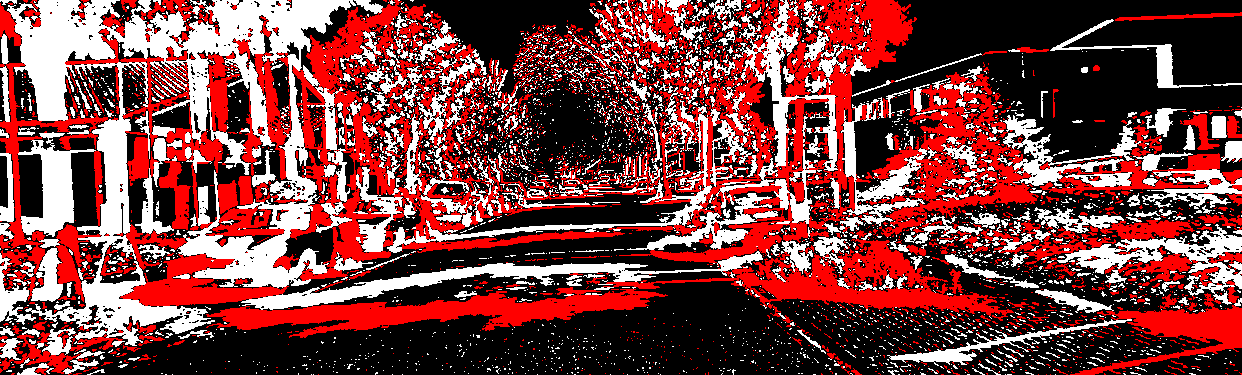
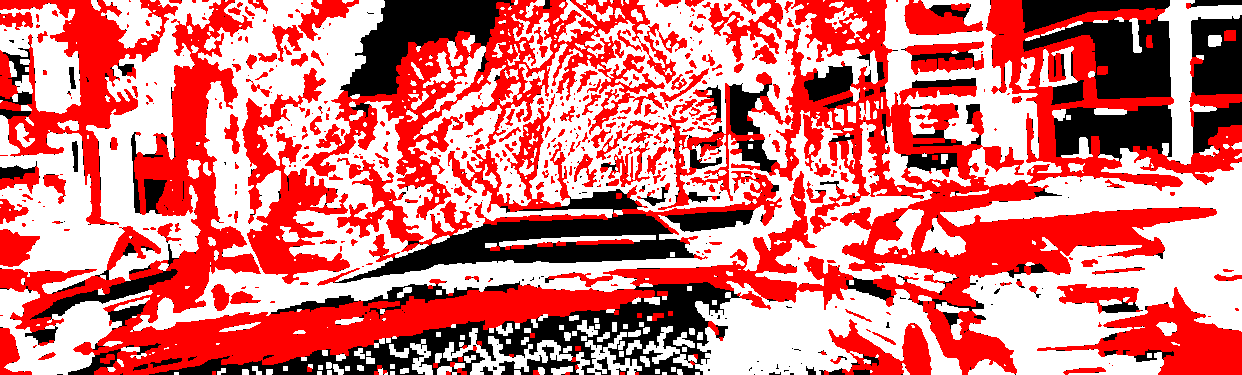
multipic capture system added

diff --git a/lidar_motion.py b/lidar_motion.py
@@ -1,15 +1,18 @@
 import numpy as np
 
 
-def move_lidar_points_weighted(uv, depth, flow, conf, conf_thresh=0.2):
-    """Move LiDAR points using RGB flow but only where events exist."""
+def move_lidar_points_weighted(uv, depth, flow, conf, conf_thresh=0.5):
+    """Move LiDAR points using RGB flow only in high-confidence, low-noise regions."""
 
     uv = np.asarray(uv, dtype=np.float32)
     depth = np.asarray(depth, dtype=np.float32)
-    flow = np.nan_to_num(flow, nan=0.0, posinf=0.0, neginf=0.0)
-    conf = np.nan_to_num(conf, nan=0.0, posinf=0.0, neginf=0.0)
+    flow = np.nan_to_num(np.asarray(flow, dtype=np.float32), nan=0.0, posinf=0.0, neginf=0.0)
+    conf = np.nan_to_num(np.asarray(conf, dtype=np.float32), nan=0.0, posinf=0.0, neginf=0.0)
 
     if uv.size == 0 or flow.ndim != 3:
+        print("Total points:", len(uv))
+        print("Valid moved points:", 0)
+        print("Movement ratio:", 0.0)
         return np.empty((0, 2), dtype=np.float32), np.empty((0,), dtype=np.float32)
 
     u = uv[:, 0]
@@ -20,33 +23,50 @@ def move_lidar_points_weighted(uv, depth, flow, conf, conf_thresh=0.2):
 
     h, w = flow.shape[:2]
 
-    valid = (
+    in_bounds = (
         (u_idx >= 0) & (u_idx < w) &
         (v_idx >= 0) & (v_idx < h)
     )
 
-    if not np.any(valid):
+    if not np.any(in_bounds):
+        print("Total points:", len(uv))
+        print("Valid moved points:", 0)
+        print("Movement ratio:", 0.0)
         return np.empty((0, 2), dtype=np.float32), np.empty((0,), dtype=np.float32)
 
-    u = u[valid]
-    v = v[valid]
-    depth = depth[valid]
-    u_idx = u_idx[valid]
-    v_idx = v_idx[valid]
+    u = u[in_bounds]
+    v = v[in_bounds]
+    depth = depth[in_bounds]
+    u_idx = u_idx[in_bounds]
+    v_idx = v_idx[in_bounds]
 
     dx = flow[v_idx, u_idx, 0]
     dy = flow[v_idx, u_idx, 1]
-
     c = conf[v_idx, u_idx]
 
-    strong = c > conf_thresh
+    flow_mag = np.linalg.norm(flow, axis=2)
+    sampled_flow_mag = flow_mag[v_idx, u_idx]
+    scale = 0.5
+
+    valid_mask = (c > 0.5) & (sampled_flow_mag < 5.0)
+
+    print("Total points:", len(uv))
+    print("Valid moved points:", np.sum(valid_mask))
+    print("Movement ratio:", np.sum(valid_mask) / len(uv))
 
     u_new = u.copy()
     v_new = v.copy()
 
-    u_new[strong] += dx[strong]
-    v_new[strong] += dy[strong]
+    u_new[valid_mask] += scale * dx[valid_mask]
+    v_new[valid_mask] += scale * dy[valid_mask]
 
-    uv_new = np.stack([u_new, v_new], axis=1)
+    moved_in_bounds = (
+        np.isfinite(u_new) & np.isfinite(v_new) &
+        (u_new >= 0.0) & (u_new < w) &
+        (v_new >= 0.0) & (v_new < h)
+    )
 
-    return uv_new, depth
+    uv_new = np.stack([u_new[moved_in_bounds], v_new[moved_in_bounds]], axis=1)
+    depth_new = depth[moved_in_bounds]
+
+    return uv_new, depth_new

diff --git a/generate_figures.py b/generate_figures.py
@@ -14,7 +14,7 @@ from lidar_motion import move_lidar_points_weighted
 # CONFIG
 # ==========================
 DATASET_PATH = r"C:\Users\sahaa\OneDrive\Desktop\Honors\datasets\fusion\2011_09_26_drive_0009_sync"
-FRAME_INDEX = 30   # change this to pick a good frame
+FRAME_INDEX = 40   # change this to pick a good frame
 OUTPUT_DIR = "paper_figures"
 
 os.makedirs(OUTPUT_DIR, exist_ok=True)
@@ -84,7 +84,11 @@ uv_moved, depth_moved = move_lidar_points_weighted(
 # ==========================
 # 4. AFTER PROJECTION (on t+1)
 # ==========================
-after = overlay_points(img_t, uv_moved, depth_moved)
+before_base = img_t.copy()
+after_base = img_t.copy()
+
+before = overlay_points(before_base, uv, depth)
+after = overlay_points(after_base, uv_moved, depth_moved)
 
 cv2.putText(before, "Before", (20, 40), cv2.FONT_HERSHEY_SIMPLEX, 1, (255, 255, 255), 2)
 cv2.putText(after, "After", (20, 40), cv2.FONT_HERSHEY_SIMPLEX, 1, (255, 255, 255), 2)
@@ -107,7 +111,7 @@ def resize_to_same(a, b):
 
 before_r, after_r = resize_to_same(before, after)
 
-comparison = np.hstack((before_r, after_r))
+comparison = np.vstack((before_r, after_r))
 blend = cv2.addWeighted(before, 0.5, after, 0.5, 0)
 
 

diff --git a/events.py b/events.py
@@ -16,6 +16,7 @@ def simulate_events(img1, img2, threshold=0.2):
     events = np.zeros_like(diff, dtype=np.float32)
     events[diff > threshold] = 1.0
     events[diff < -threshold] = -1.0
+    events = cv2.GaussianBlur(events.astype(np.float32), (5, 5), 0)
     return events
 
 
@@ -27,9 +28,9 @@ def events_to_image(events):
     vis[event_map < 0] = (0, 0, 255)
     return vis
 
+
 def event_confidence(events):
-    """Convert event map to confidence mask (0–1)."""
-    conf = np.abs(events)
-    if conf.max() > 0:
-        conf = conf / conf.max()
-    return conf.astype(np.float32)
+    """Convert event map to a sparse binary confidence mask."""
+    conf = (np.abs(events) > 0.1).astype(np.float32)
+    print("Event density:", np.mean(conf))
+    return conf
